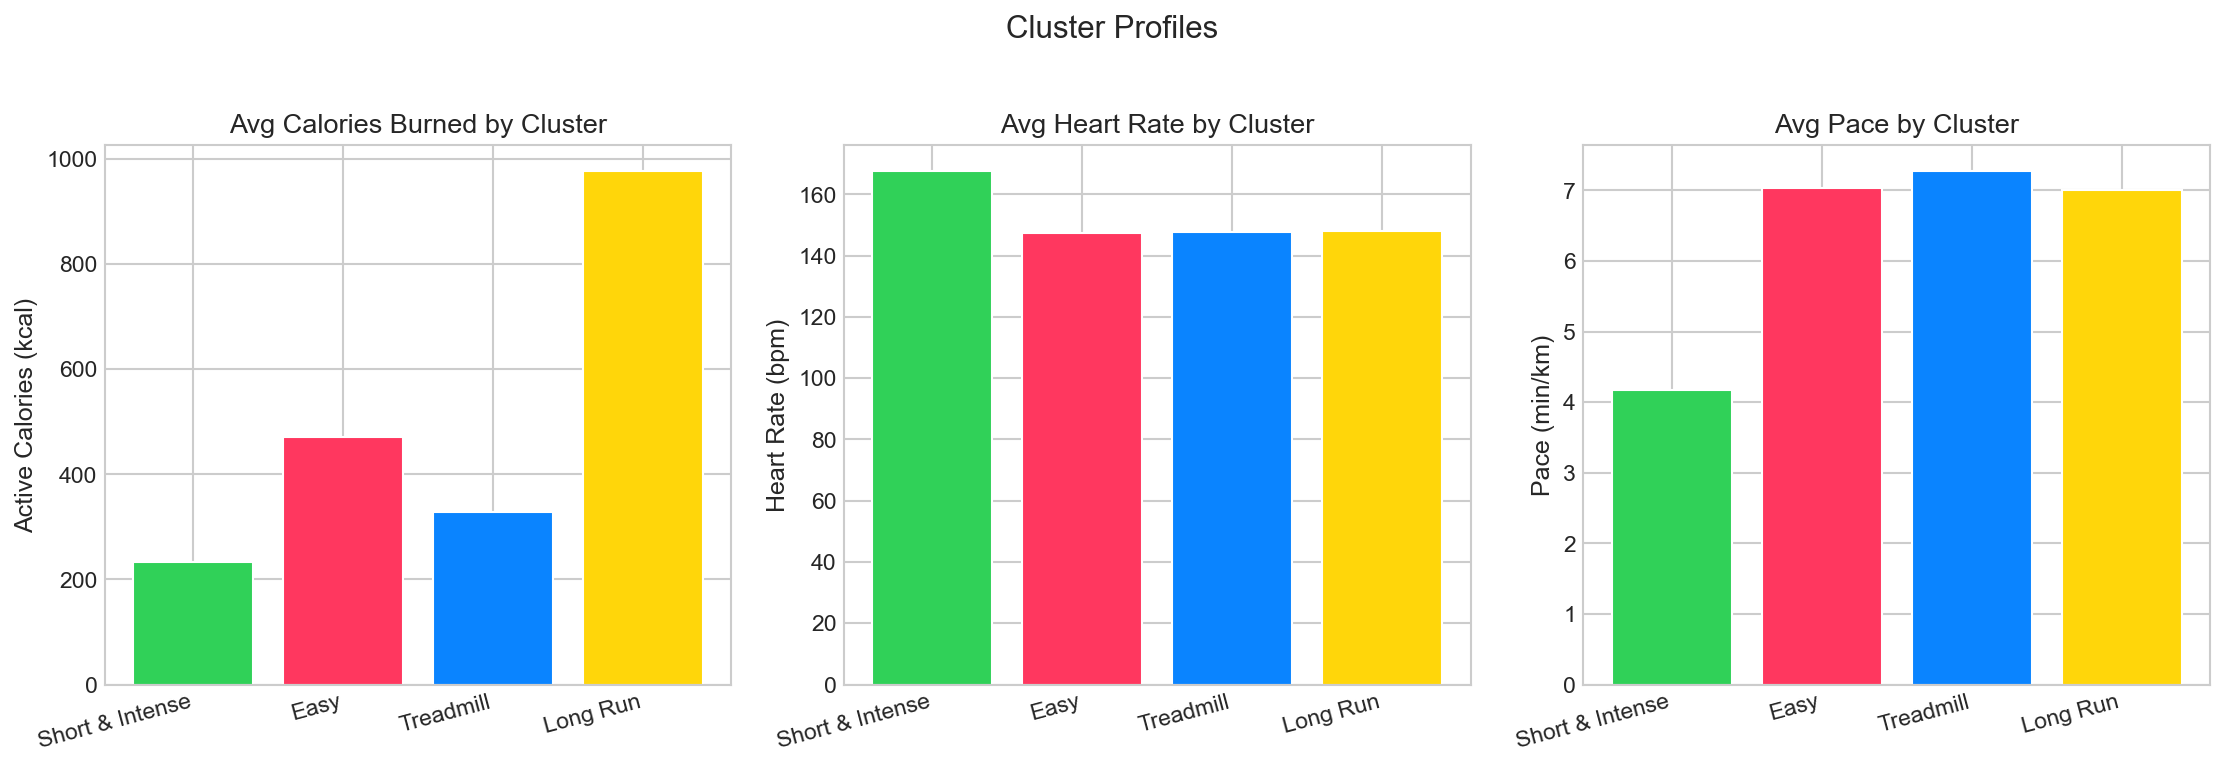
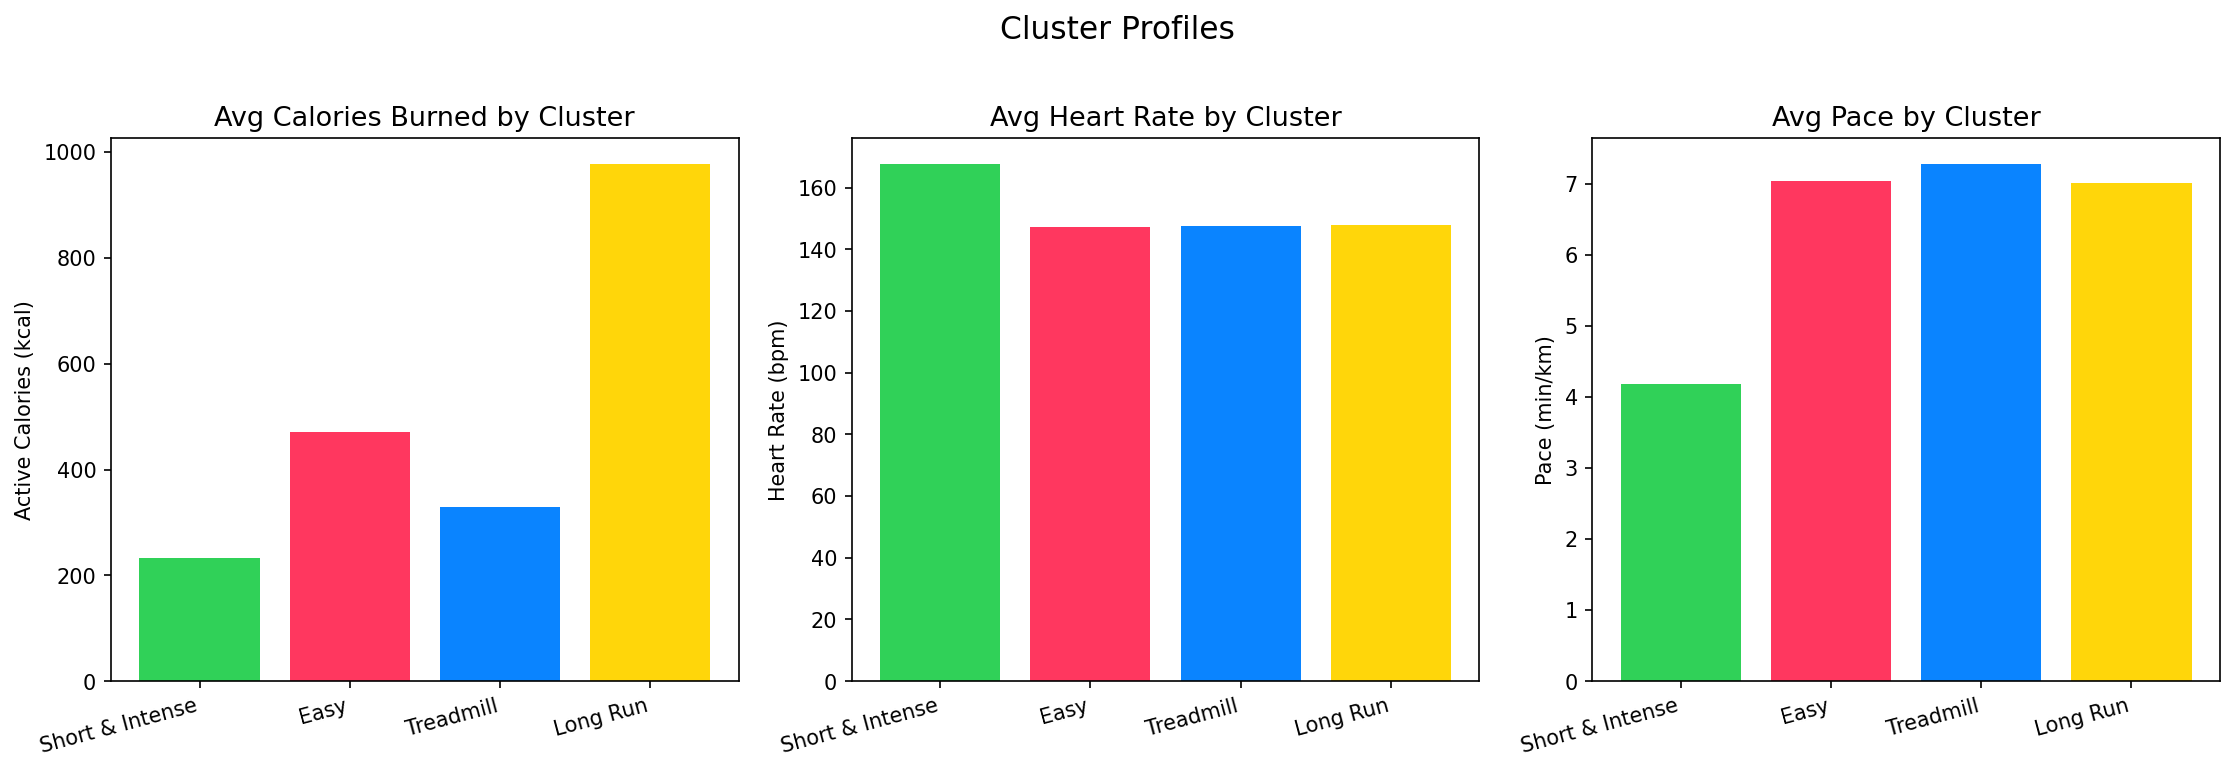
Update README, pipeline diagram and scripts

diff --git a/scripts/03_gpx_parser.py b/scripts/03_gpx_parser.py
@@ -12,6 +12,7 @@ routes = []
 points = []
 
 gpx_files = [f for f in os.listdir(GPX_FOLDER) if f.endswith(".gpx")]
+print(f"Found {len(gpx_files)} GPX files. Parsing...")
 
 for filename in sorted(gpx_files):
     filepath = os.path.join(GPX_FOLDER, filename)
@@ -105,3 +106,9 @@ df_points = pd.DataFrame(points)
 
 df_routes.to_csv(ROUTES_OUTPUT, index=False)
 df_points.to_csv(POINTS_OUTPUT, index=False)
+
+print(f"\nDone.")
+print(f"  Routes parsed  : {len(df_routes)}")
+print(f"  Total points   : {len(df_points)}")
+print(f"  Saved to       : {ROUTES_OUTPUT}")
+print(f"  Saved to       : {POINTS_OUTPUT}")

diff --git a/scripts/06_clustering.py b/scripts/06_clustering.py
@@ -151,5 +151,5 @@ plt.savefig(f"{PLOTS_DIR}/18_cluster_profiles.png", dpi=150, bbox_inches="tight"
 plt.show()
 
 trainings.to_csv("running_clean_with_clusters.csv", index=False)
-
+trainings.to_csv("running_clean_with_clusters_powerbi.csv", index=False, decimal=',')
 

diff --git a/README.md b/README.md
@@ -6,7 +6,7 @@ I started running back in high school, but it wasn't until 2020 that it truly be
 
 What started as a way to cope slowly turned into something more. A habit, a discipline, and eventually a passion. I ran my first half marathon and started training for a full one, until an injury forced me to stop and reset. Today I run for the joy of it, not for competition. It keeps me grounded, and someday I'd like to complete that marathon just to prove I can.
 
-Over the years, without really thinking about it, my Apple Watch recorded every single one of those runs. Pace, heart rate, distance, elevation, weather conditions. Nearly 7 years of data, sitting there. This project is my attempt to make sense of it.
+Over the years, without really thinking about it, my Apple Watch recorded every single one of those runs. Pace, heart rate, distance, elevation, weather conditions. Nearly 8 years of data, sitting there. This project is my attempt to make sense of it.
 
 ---
 
@@ -14,7 +14,7 @@ Over the years, without really thinking about it, my Apple Watch recorded every 
 
 A full data analysis pipeline applied to personal running data exported from Apple Health (2019–2026). The goal is to explore performance trends, identify training patterns, and build predictive models using the same tools and workflow a data analyst would use in a professional setting.
 
-**Stack:** Python · SQLite · SQL · scikit-learn · Power BI
+**Stack:** Python · SQLite · SQL · scikit-learn · Power BI · Folium
 
 ---
 
@@ -43,10 +43,11 @@ running-performance-analysis/
 │   ├── 04_build_database.py        # Build relational SQLite database (5 tables)
 │   ├── 05_queries.sql              # Analytical SQL queries
 │   ├── 06_clustering.py            # K-Means clustering and PCA visualization
-│   └── 07_calorie_prediction.py    # Random Forest calorie prediction models
+│   ├── 07_calorie_prediction.py    # Random Forest calorie prediction models
+│   └── 08_maps.py                  # Interactive route map with Folium
 │
 ├── plots/                          # All generated visualizations
-├── dashboard/                      # Power BI dashboard files
+├── dashboard/                      # Power BI dashboard (PDF) and interactive map (HTML)
 ├── .gitignore
 └── README.md
 ```
@@ -63,7 +64,8 @@ Apple Health XML → 00_parse_xml.py → 01_cleaning.py → 02_eda.py
 GPX Files        → 03_gpx_parser.py ──────────────────────────────────────────
                                                |
                                                ├──────────────────→ 06_clustering.py
-                                               └──────────────────→ 07_calorie_prediction.py
+                                               ├──────────────────→ 07_calorie_prediction.py
+                                               └──────────────────→ 08_maps.py
 ```
 
 ---
@@ -78,7 +80,16 @@ GPX Files        → 03_gpx_parser.py ──────────────
 - [x] Analytical SQL queries — 10 queries across volume, performance and routes
 - [x] K-Means clustering — 4 session types identified (Short & Intense, Easy, Treadmill, Long Run)
 - [x] Calorie prediction — two Random Forest models (R² = 0.97 / 0.95)
-- [ ] Power BI dashboard
+- [x] Power BI dashboard — 3 pages, 12 visualizations (see `dashboard/`)
+- [x] Interactive GPS map — 258 outdoor routes across Lima, filterable by session type (see `dashboard/running_map.html`)
+
+---
+
+## Dashboard
+
+The Power BI dashboard covers three analytical pages: an overview of 8 years of training volume and pace trends, a performance deep-dive with cluster analysis, and a heart rate and weather conditions breakdown. A static export is available in [`dashboard/Running_Performance_Dashboard.pdf`](dashboard/Running_Performance_Dashboard.pdf).
+
+The interactive GPS map renders all 258 outdoor running routes across Lima, color-coded by session type (Short & Intense, Easy, Long Run). Open [`dashboard/running_map.html`](dashboard/running_map.html) in any browser — no installation required.
 
 ---
 